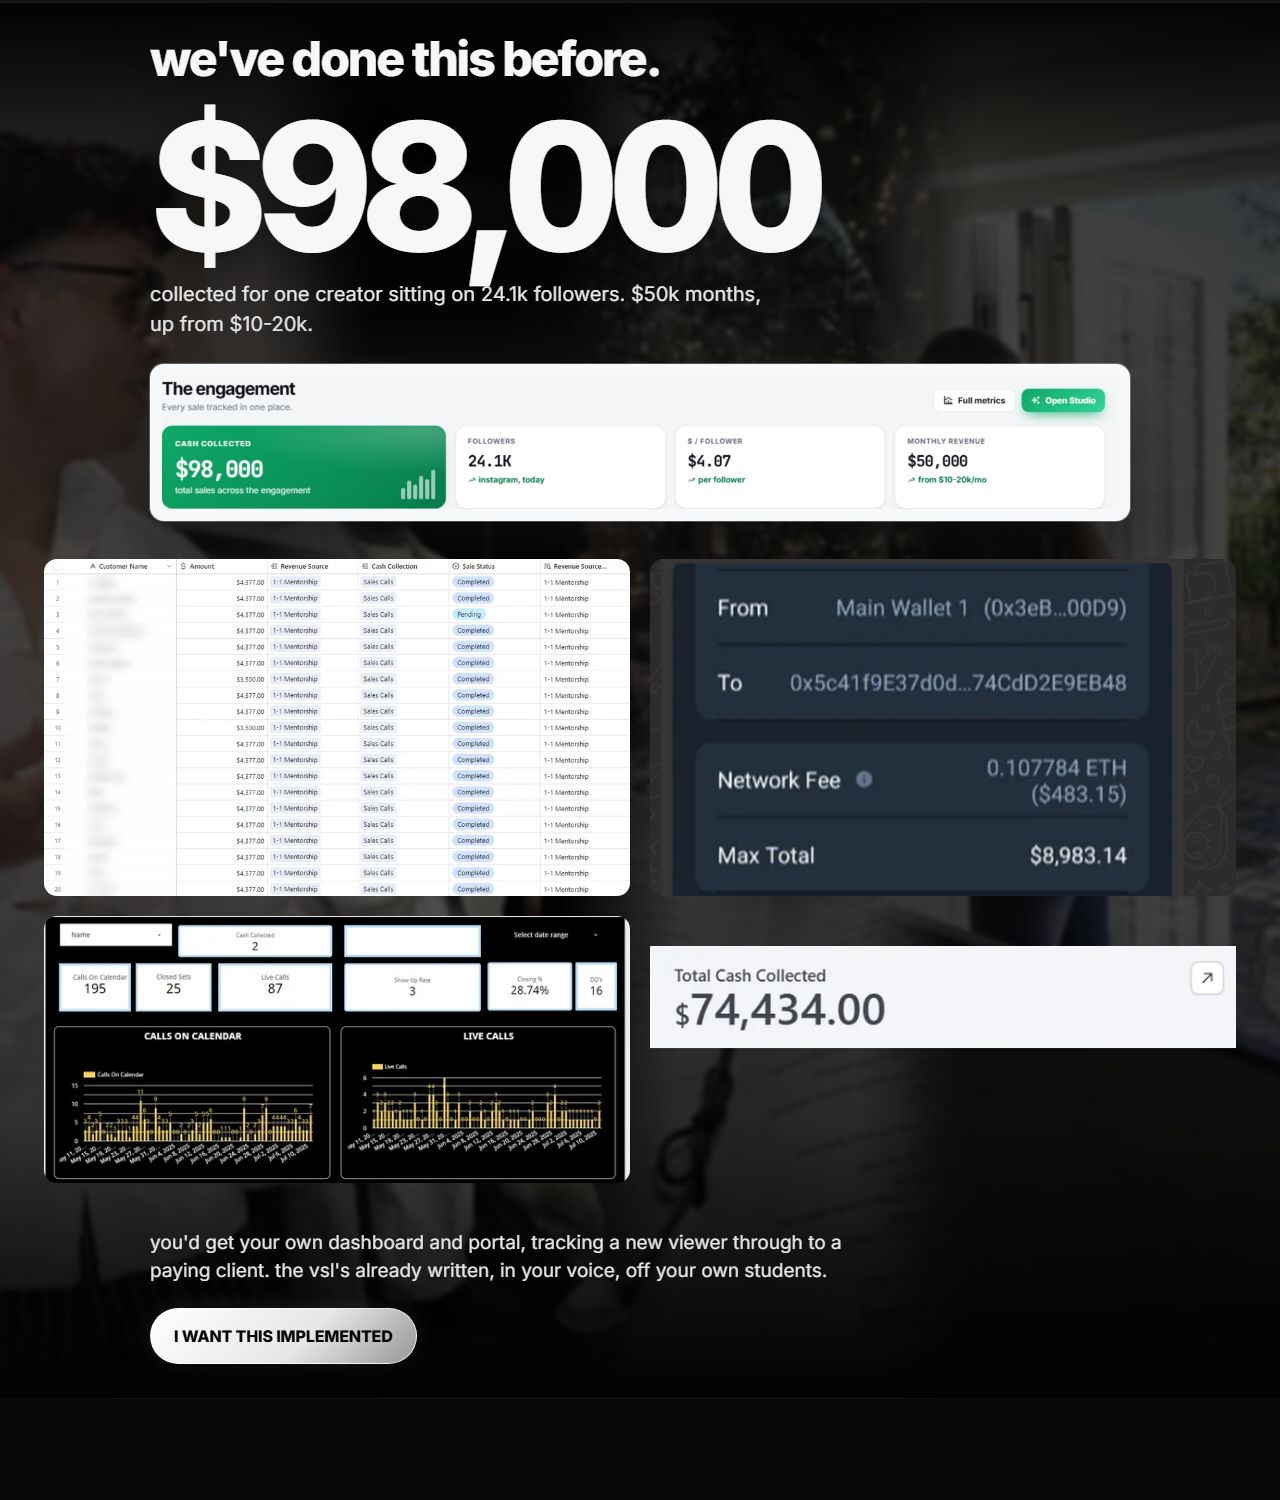
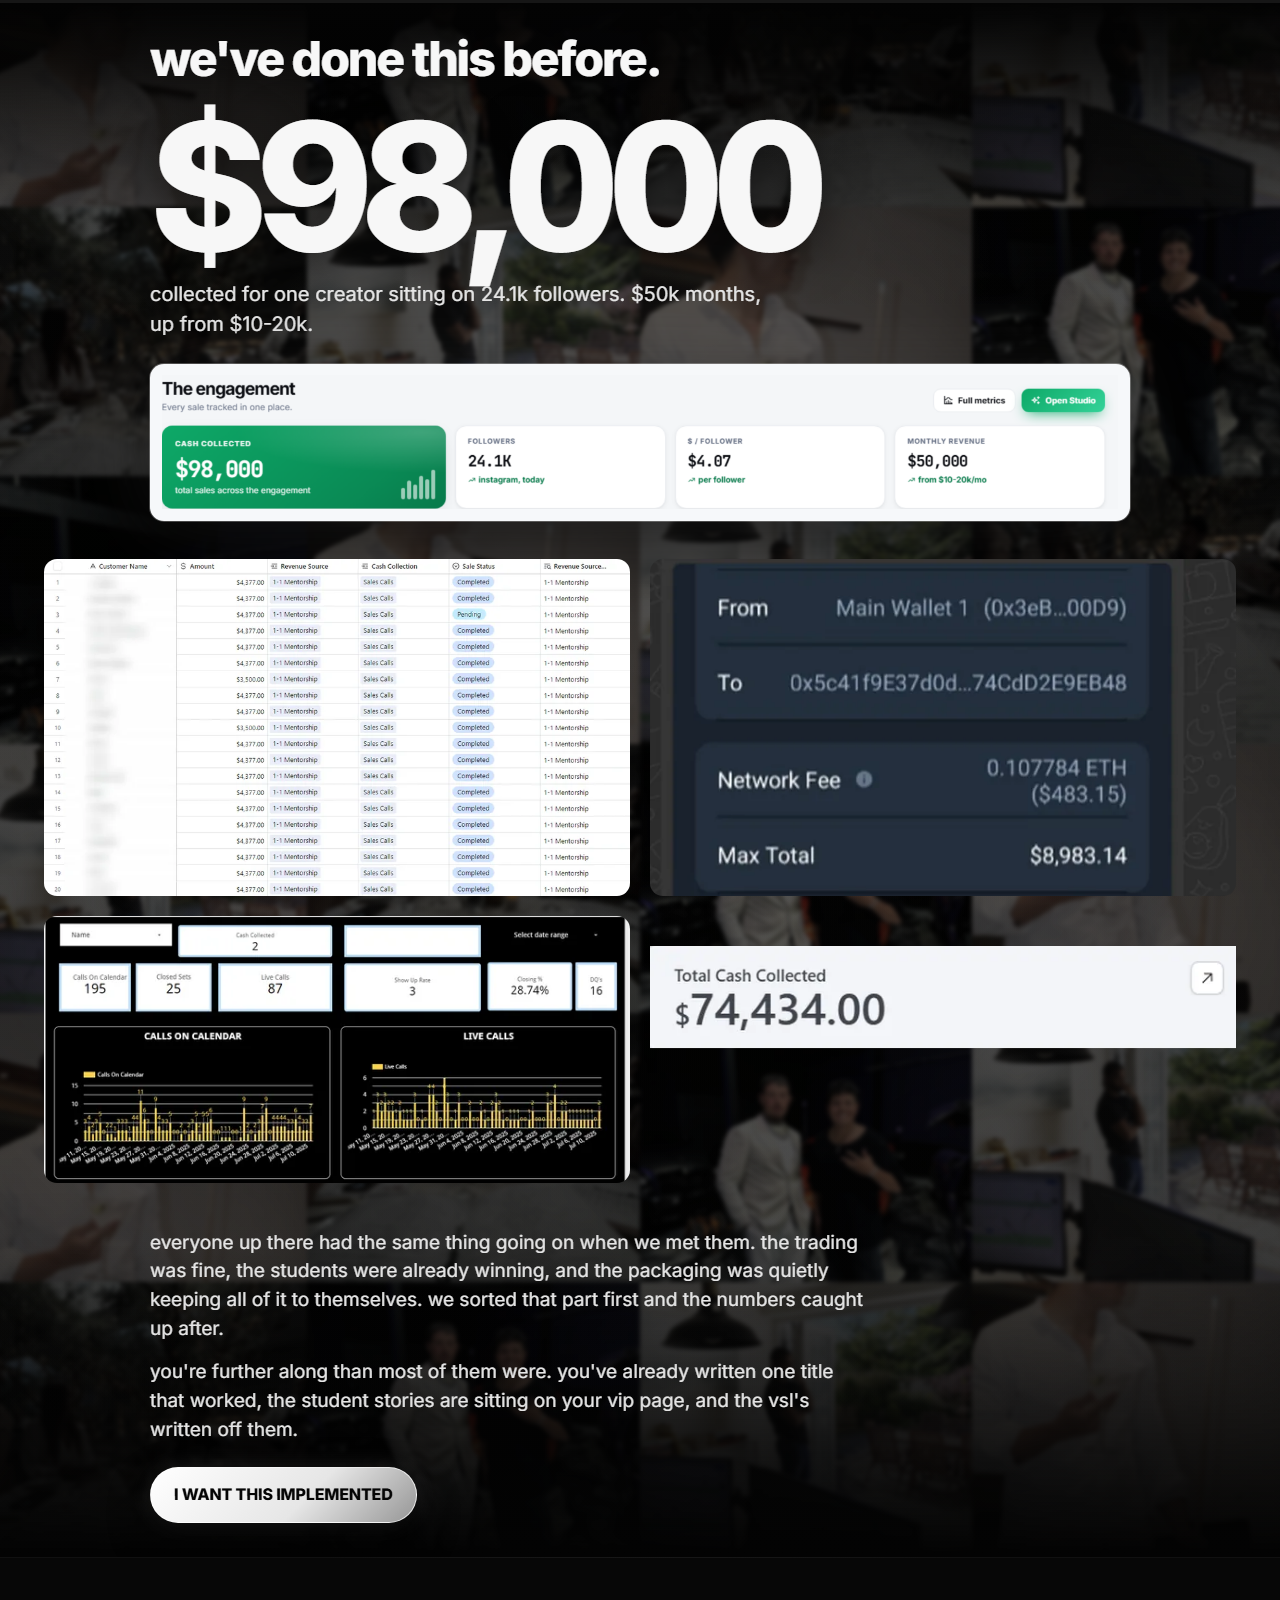
auto: checkpoint 2026-08-16 23:14:17

diff --git a/output/bergtrades-page/_capture.html b/output/bergtrades-page/_capture.html
@@ -222,6 +222,26 @@
           <img src="assets/proof/proof-nick-mamba.webp" alt="" loading="eager" decoding="sync" fetchpriority="high" draggable="false">
           <img src="assets/proof/proof-table.webp" alt="" loading="eager" decoding="sync" fetchpriority="high" draggable="false">
           <img src="assets/proof/proof-jacob.webp" alt="" loading="eager" decoding="sync" fetchpriority="high" draggable="false">
+          <img src="assets/proof/proof-table.webp" alt="" loading="eager" decoding="sync" fetchpriority="high" draggable="false">
+          <img src="assets/proof/proof-jacob.webp" alt="" loading="eager" decoding="sync" fetchpriority="high" draggable="false">
+          <img src="assets/proof/proof-nick.webp" alt="" loading="eager" decoding="sync" fetchpriority="high" draggable="false">
+          <img src="assets/proof/proof-nick-mamba.webp" alt="" loading="eager" decoding="sync" fetchpriority="high" draggable="false">
+          <img src="assets/proof/proof-nick-mamba.webp" alt="" loading="eager" decoding="sync" fetchpriority="high" draggable="false">
+          <img src="assets/proof/proof-nick.webp" alt="" loading="eager" decoding="sync" fetchpriority="high" draggable="false">
+          <img src="assets/proof/proof-jacob.webp" alt="" loading="eager" decoding="sync" fetchpriority="high" draggable="false">
+          <img src="assets/proof/proof-table.webp" alt="" loading="eager" decoding="sync" fetchpriority="high" draggable="false">
+          <img src="assets/proof/proof-jacob.webp" alt="" loading="eager" decoding="sync" fetchpriority="high" draggable="false">
+          <img src="assets/proof/proof-table.webp" alt="" loading="eager" decoding="sync" fetchpriority="high" draggable="false">
+          <img src="assets/proof/proof-nick-mamba.webp" alt="" loading="eager" decoding="sync" fetchpriority="high" draggable="false">
+          <img src="assets/proof/proof-nick.webp" alt="" loading="eager" decoding="sync" fetchpriority="high" draggable="false">
+          <img src="assets/proof/proof-nick.webp" alt="" loading="eager" decoding="sync" fetchpriority="high" draggable="false">
+          <img src="assets/proof/proof-table.webp" alt="" loading="eager" decoding="sync" fetchpriority="high" draggable="false">
+          <img src="assets/proof/proof-nick-mamba.webp" alt="" loading="eager" decoding="sync" fetchpriority="high" draggable="false">
+          <img src="assets/proof/proof-jacob.webp" alt="" loading="eager" decoding="sync" fetchpriority="high" draggable="false">
+          <img src="assets/proof/proof-table.webp" alt="" loading="eager" decoding="sync" fetchpriority="high" draggable="false">
+          <img src="assets/proof/proof-nick-mamba.webp" alt="" loading="eager" decoding="sync" fetchpriority="high" draggable="false">
+          <img src="assets/proof/proof-jacob.webp" alt="" loading="eager" decoding="sync" fetchpriority="high" draggable="false">
+          <img src="assets/proof/proof-nick.webp" alt="" loading="eager" decoding="sync" fetchpriority="high" draggable="false">
         </div>
       </div>
 
@@ -255,7 +275,9 @@
         </div>
 
         <div class="close-column close-tail">
-          <p data-stage="copy">you'd get your own dashboard and portal, tracking a new viewer through to a paying client. the vsl's already written, in your voice, off your own students.</p>
+          <p data-stage="copy">everyone up there had the same thing going on when we met them. the trading was fine and the students were already winning, the packaging just wasn't letting anyone find out. we sorted that part first and the numbers caught up after.</p>
+
+          <p data-stage="copy">you're further along than most of them were. you've already written one title that worked, the student stories are sitting on your vip page, and the vsl's written off them.</p>
 
           <a id="cta-primary" class="primary-cta" data-cta="implement" data-stage="annotation" href="https://cal.com/mista-ab/1-1-consultation-call-with-*ab">I WANT THIS IMPLEMENTED</a>
         </div>

diff --git a/output/bergtrades-page/dist/index.html b/output/bergtrades-page/dist/index.html
@@ -218,6 +218,26 @@
           <img src="assets/proof/proof-nick-mamba.webp" alt="" loading="eager" decoding="async" draggable="false">
           <img src="assets/proof/proof-table.webp" alt="" loading="eager" decoding="async" draggable="false">
           <img src="assets/proof/proof-jacob.webp" alt="" loading="eager" decoding="async" draggable="false">
+          <img src="assets/proof/proof-table.webp" alt="" loading="eager" decoding="async" draggable="false">
+          <img src="assets/proof/proof-jacob.webp" alt="" loading="eager" decoding="async" draggable="false">
+          <img src="assets/proof/proof-nick.webp" alt="" loading="eager" decoding="async" draggable="false">
+          <img src="assets/proof/proof-nick-mamba.webp" alt="" loading="eager" decoding="async" draggable="false">
+          <img src="assets/proof/proof-nick-mamba.webp" alt="" loading="eager" decoding="async" draggable="false">
+          <img src="assets/proof/proof-nick.webp" alt="" loading="eager" decoding="async" draggable="false">
+          <img src="assets/proof/proof-jacob.webp" alt="" loading="eager" decoding="async" draggable="false">
+          <img src="assets/proof/proof-table.webp" alt="" loading="eager" decoding="async" draggable="false">
+          <img src="assets/proof/proof-jacob.webp" alt="" loading="eager" decoding="async" draggable="false">
+          <img src="assets/proof/proof-table.webp" alt="" loading="eager" decoding="async" draggable="false">
+          <img src="assets/proof/proof-nick-mamba.webp" alt="" loading="eager" decoding="async" draggable="false">
+          <img src="assets/proof/proof-nick.webp" alt="" loading="eager" decoding="async" draggable="false">
+          <img src="assets/proof/proof-nick.webp" alt="" loading="eager" decoding="async" draggable="false">
+          <img src="assets/proof/proof-table.webp" alt="" loading="eager" decoding="async" draggable="false">
+          <img src="assets/proof/proof-nick-mamba.webp" alt="" loading="eager" decoding="async" draggable="false">
+          <img src="assets/proof/proof-jacob.webp" alt="" loading="eager" decoding="async" draggable="false">
+          <img src="assets/proof/proof-table.webp" alt="" loading="eager" decoding="async" draggable="false">
+          <img src="assets/proof/proof-nick-mamba.webp" alt="" loading="eager" decoding="async" draggable="false">
+          <img src="assets/proof/proof-jacob.webp" alt="" loading="eager" decoding="async" draggable="false">
+          <img src="assets/proof/proof-nick.webp" alt="" loading="eager" decoding="async" draggable="false">
         </div>
       </div>
 
@@ -251,7 +271,9 @@
         </div>
 
         <div class="close-column close-tail">
-          <p data-stage="copy">you'd get your own dashboard and portal, tracking a new viewer through to a paying client. the vsl's already written, in your voice, off your own students.</p>
+          <p data-stage="copy">everyone up there had the same thing going on when we met them. the trading was fine and the students were already winning, the packaging just wasn't letting anyone find out. we sorted that part first and the numbers caught up after.</p>
+
+          <p data-stage="copy">you're further along than most of them were. you've already written one title that worked, the student stories are sitting on your vip page, and the vsl's written off them.</p>
 
           <a id="cta-primary" class="primary-cta" data-cta="implement" data-stage="annotation" href="https://cal.com/mista-ab/1-1-consultation-call-with-*ab">I WANT THIS IMPLEMENTED</a>
         </div>

diff --git a/output/bergtrades-page/index.html b/output/bergtrades-page/index.html
@@ -218,6 +218,26 @@
           <img src="assets/proof/proof-nick-mamba.webp" alt="" loading="eager" decoding="async" draggable="false">
           <img src="assets/proof/proof-table.webp" alt="" loading="eager" decoding="async" draggable="false">
           <img src="assets/proof/proof-jacob.webp" alt="" loading="eager" decoding="async" draggable="false">
+          <img src="assets/proof/proof-table.webp" alt="" loading="eager" decoding="async" draggable="false">
+          <img src="assets/proof/proof-jacob.webp" alt="" loading="eager" decoding="async" draggable="false">
+          <img src="assets/proof/proof-nick.webp" alt="" loading="eager" decoding="async" draggable="false">
+          <img src="assets/proof/proof-nick-mamba.webp" alt="" loading="eager" decoding="async" draggable="false">
+          <img src="assets/proof/proof-nick-mamba.webp" alt="" loading="eager" decoding="async" draggable="false">
+          <img src="assets/proof/proof-nick.webp" alt="" loading="eager" decoding="async" draggable="false">
+          <img src="assets/proof/proof-jacob.webp" alt="" loading="eager" decoding="async" draggable="false">
+          <img src="assets/proof/proof-table.webp" alt="" loading="eager" decoding="async" draggable="false">
+          <img src="assets/proof/proof-jacob.webp" alt="" loading="eager" decoding="async" draggable="false">
+          <img src="assets/proof/proof-table.webp" alt="" loading="eager" decoding="async" draggable="false">
+          <img src="assets/proof/proof-nick-mamba.webp" alt="" loading="eager" decoding="async" draggable="false">
+          <img src="assets/proof/proof-nick.webp" alt="" loading="eager" decoding="async" draggable="false">
+          <img src="assets/proof/proof-nick.webp" alt="" loading="eager" decoding="async" draggable="false">
+          <img src="assets/proof/proof-table.webp" alt="" loading="eager" decoding="async" draggable="false">
+          <img src="assets/proof/proof-nick-mamba.webp" alt="" loading="eager" decoding="async" draggable="false">
+          <img src="assets/proof/proof-jacob.webp" alt="" loading="eager" decoding="async" draggable="false">
+          <img src="assets/proof/proof-table.webp" alt="" loading="eager" decoding="async" draggable="false">
+          <img src="assets/proof/proof-nick-mamba.webp" alt="" loading="eager" decoding="async" draggable="false">
+          <img src="assets/proof/proof-jacob.webp" alt="" loading="eager" decoding="async" draggable="false">
+          <img src="assets/proof/proof-nick.webp" alt="" loading="eager" decoding="async" draggable="false">
         </div>
       </div>
 
@@ -251,7 +271,9 @@
         </div>
 
         <div class="close-column close-tail">
-          <p data-stage="copy">you'd get your own dashboard and portal, tracking a new viewer through to a paying client. the vsl's already written, in your voice, off your own students.</p>
+          <p data-stage="copy">everyone up there had the same thing going on when we met them. the trading was fine and the students were already winning, the packaging just wasn't letting anyone find out. we sorted that part first and the numbers caught up after.</p>
+
+          <p data-stage="copy">you're further along than most of them were. you've already written one title that worked, the student stories are sitting on your vip page, and the vsl's written off them.</p>
 
           <a id="cta-primary" class="primary-cta" data-cta="implement" data-stage="annotation" href="https://cal.com/mista-ab/1-1-consultation-call-with-*ab">I WANT THIS IMPLEMENTED</a>
         </div>

diff --git a/output/bergtrades-page/dist/styles.css b/output/bergtrades-page/dist/styles.css
@@ -527,37 +527,30 @@ em {
 
 .cb-layer {
   position: absolute;
-  inset: -7% -3%;
+  display: flex;
+  inset: -4% -2%;
+  flex-wrap: wrap;
+  align-content: flex-start;
   opacity: calc(0.4 + 0.16 * var(--cb-lift, 0));
+  filter: grayscale(0.42) brightness(0.84) blur(2px);
   transform: translate3d(0, var(--cb-shift, 0px), 0);
   will-change: transform;
 }
 
+/* tiled so every one of the four is legible at a normal size and no single
+   photo owns the section. object-position varies so repeats do not read as a
+   repeating pattern. */
 .cb-layer img {
-  position: absolute;
-  top: 0;
-  width: 34%;
-  height: 100%;
-  filter: grayscale(0.42) brightness(0.82) blur(2px);
+  width: 25%;
+  height: clamp(200px, 21vw, 340px);
+  flex: 0 0 auto;
   object-fit: cover;
-  mask-image: linear-gradient(to right, transparent 0%, #000 26%, #000 74%, transparent 100%);
-  -webkit-mask-image: linear-gradient(to right, transparent 0%, #000 26%, #000 74%, transparent 100%);
 }
 
-.cb-layer img:nth-child(1) {
-  left: 0;
-  mask-image: linear-gradient(to right, #000 0%, #000 74%, transparent 100%);
-  -webkit-mask-image: linear-gradient(to right, #000 0%, #000 74%, transparent 100%);
-}
-
-.cb-layer img:nth-child(2) { left: 22%; }
-.cb-layer img:nth-child(3) { left: 44%; }
-
-.cb-layer img:nth-child(4) {
-  left: 66%;
-  mask-image: linear-gradient(to right, transparent 0%, #000 26%, #000 100%);
-  -webkit-mask-image: linear-gradient(to right, transparent 0%, #000 26%, #000 100%);
-}
+.cb-layer img:nth-child(4n + 1) { object-position: 50% 22%; }
+.cb-layer img:nth-child(4n + 2) { object-position: 34% 50%; }
+.cb-layer img:nth-child(4n + 3) { object-position: 66% 38%; }
+.cb-layer img:nth-child(4n + 4) { object-position: 50% 64%; }
 
 /* the scrim keeps every piece of copy above it at full contrast and hands the
    section back to pure black at both seams. */
@@ -683,6 +676,10 @@ em {
   max-width: 720px;
   margin-top: 0;
   color: var(--white-soft);
+}
+
+.close-tail > p + p {
+  margin-top: 14px;
 }
 
 .primary-cta {
@@ -842,14 +839,9 @@ em {
   }
 
   .cb-layer img {
-    width: 56%;
-    height: 52%;
+    width: 50%;
+    height: 210px;
   }
-
-  .cb-layer img:nth-child(1) { left: 0; top: 0; }
-  .cb-layer img:nth-child(2) { left: 44%; top: 0; }
-  .cb-layer img:nth-child(3) { left: 0; top: 48%; }
-  .cb-layer img:nth-child(4) { left: 44%; top: 48%; }
 }
 
 @media (prefers-reduced-motion: reduce) {

diff --git a/output/bergtrades-page/styles.css b/output/bergtrades-page/styles.css
@@ -527,37 +527,30 @@ em {
 
 .cb-layer {
   position: absolute;
-  inset: -7% -3%;
+  display: flex;
+  inset: -4% -2%;
+  flex-wrap: wrap;
+  align-content: flex-start;
   opacity: calc(0.4 + 0.16 * var(--cb-lift, 0));
+  filter: grayscale(0.42) brightness(0.84) blur(2px);
   transform: translate3d(0, var(--cb-shift, 0px), 0);
   will-change: transform;
 }
 
+/* tiled so every one of the four is legible at a normal size and no single
+   photo owns the section. object-position varies so repeats do not read as a
+   repeating pattern. */
 .cb-layer img {
-  position: absolute;
-  top: 0;
-  width: 34%;
-  height: 100%;
-  filter: grayscale(0.42) brightness(0.82) blur(2px);
+  width: 25%;
+  height: clamp(200px, 21vw, 340px);
+  flex: 0 0 auto;
   object-fit: cover;
-  mask-image: linear-gradient(to right, transparent 0%, #000 26%, #000 74%, transparent 100%);
-  -webkit-mask-image: linear-gradient(to right, transparent 0%, #000 26%, #000 74%, transparent 100%);
 }
 
-.cb-layer img:nth-child(1) {
-  left: 0;
-  mask-image: linear-gradient(to right, #000 0%, #000 74%, transparent 100%);
-  -webkit-mask-image: linear-gradient(to right, #000 0%, #000 74%, transparent 100%);
-}
-
-.cb-layer img:nth-child(2) { left: 22%; }
-.cb-layer img:nth-child(3) { left: 44%; }
-
-.cb-layer img:nth-child(4) {
-  left: 66%;
-  mask-image: linear-gradient(to right, transparent 0%, #000 26%, #000 100%);
-  -webkit-mask-image: linear-gradient(to right, transparent 0%, #000 26%, #000 100%);
-}
+.cb-layer img:nth-child(4n + 1) { object-position: 50% 22%; }
+.cb-layer img:nth-child(4n + 2) { object-position: 34% 50%; }
+.cb-layer img:nth-child(4n + 3) { object-position: 66% 38%; }
+.cb-layer img:nth-child(4n + 4) { object-position: 50% 64%; }
 
 /* the scrim keeps every piece of copy above it at full contrast and hands the
    section back to pure black at both seams. */
@@ -683,6 +676,10 @@ em {
   max-width: 720px;
   margin-top: 0;
   color: var(--white-soft);
+}
+
+.close-tail > p + p {
+  margin-top: 14px;
 }
 
 .primary-cta {
@@ -842,14 +839,9 @@ em {
   }
 
   .cb-layer img {
-    width: 56%;
-    height: 52%;
+    width: 50%;
+    height: 210px;
   }
-
-  .cb-layer img:nth-child(1) { left: 0; top: 0; }
-  .cb-layer img:nth-child(2) { left: 44%; top: 0; }
-  .cb-layer img:nth-child(3) { left: 0; top: 48%; }
-  .cb-layer img:nth-child(4) { left: 44%; top: 48%; }
 }
 
 @media (prefers-reduced-motion: reduce) {
